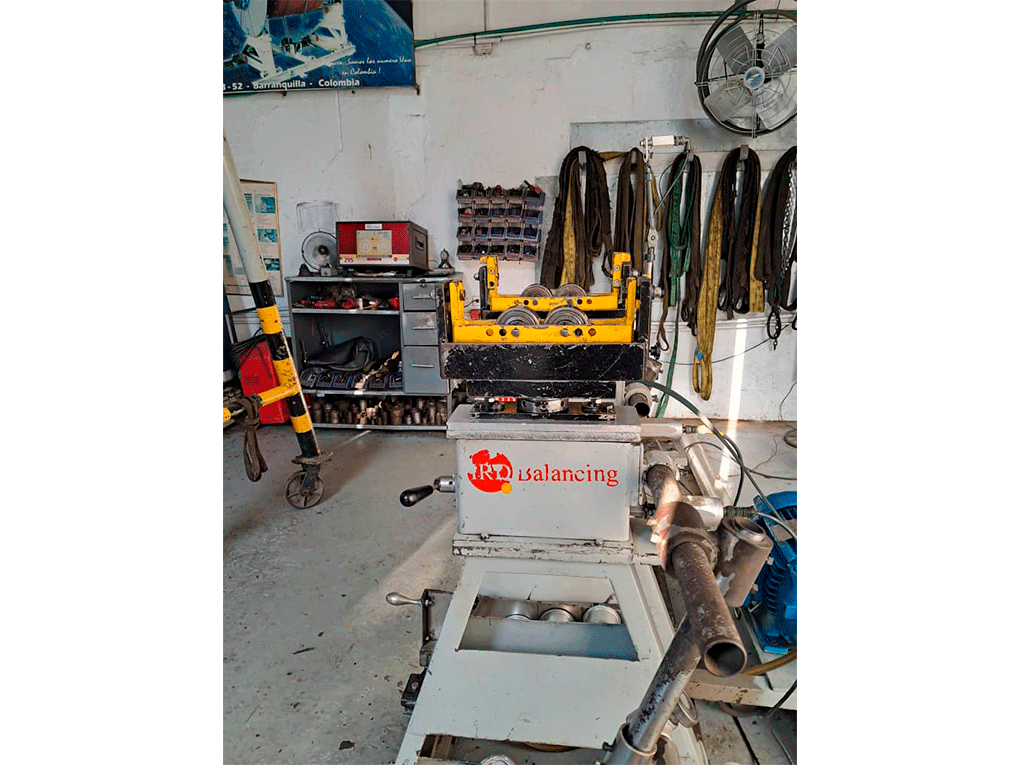
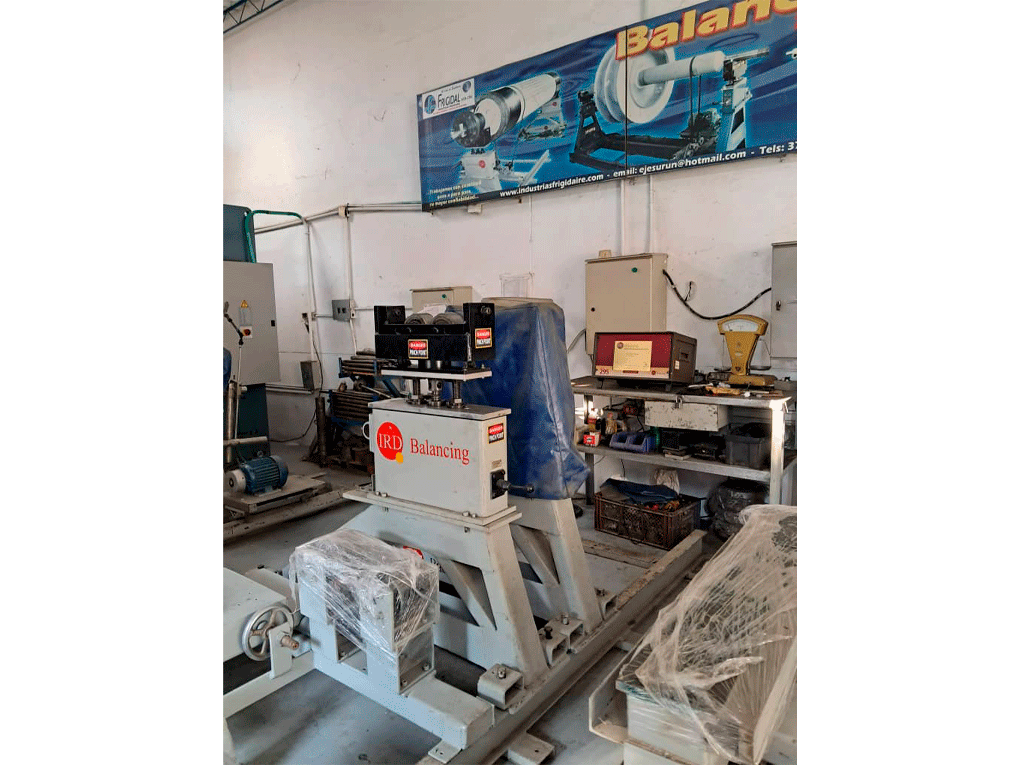
Actualización de imagenes

diff --git a/src/Pages/Gallery/Gallery.jsx b/src/Pages/Gallery/Gallery.jsx
@@ -148,7 +148,7 @@ const Gallery = () => {
       renderItem: renderItemCustom,
     },
     {
-      original: "/galleryImages/Imagen-10.jpg",
+      original: "/galleryImages/Imagen-10.png",
       thumbnail: "/galleryImages/thumbs/Imagen-10.png",
       description:
         "Calibración 2 x 295 con B50F y B750, Frigidal Barranquilla Colombia.",
